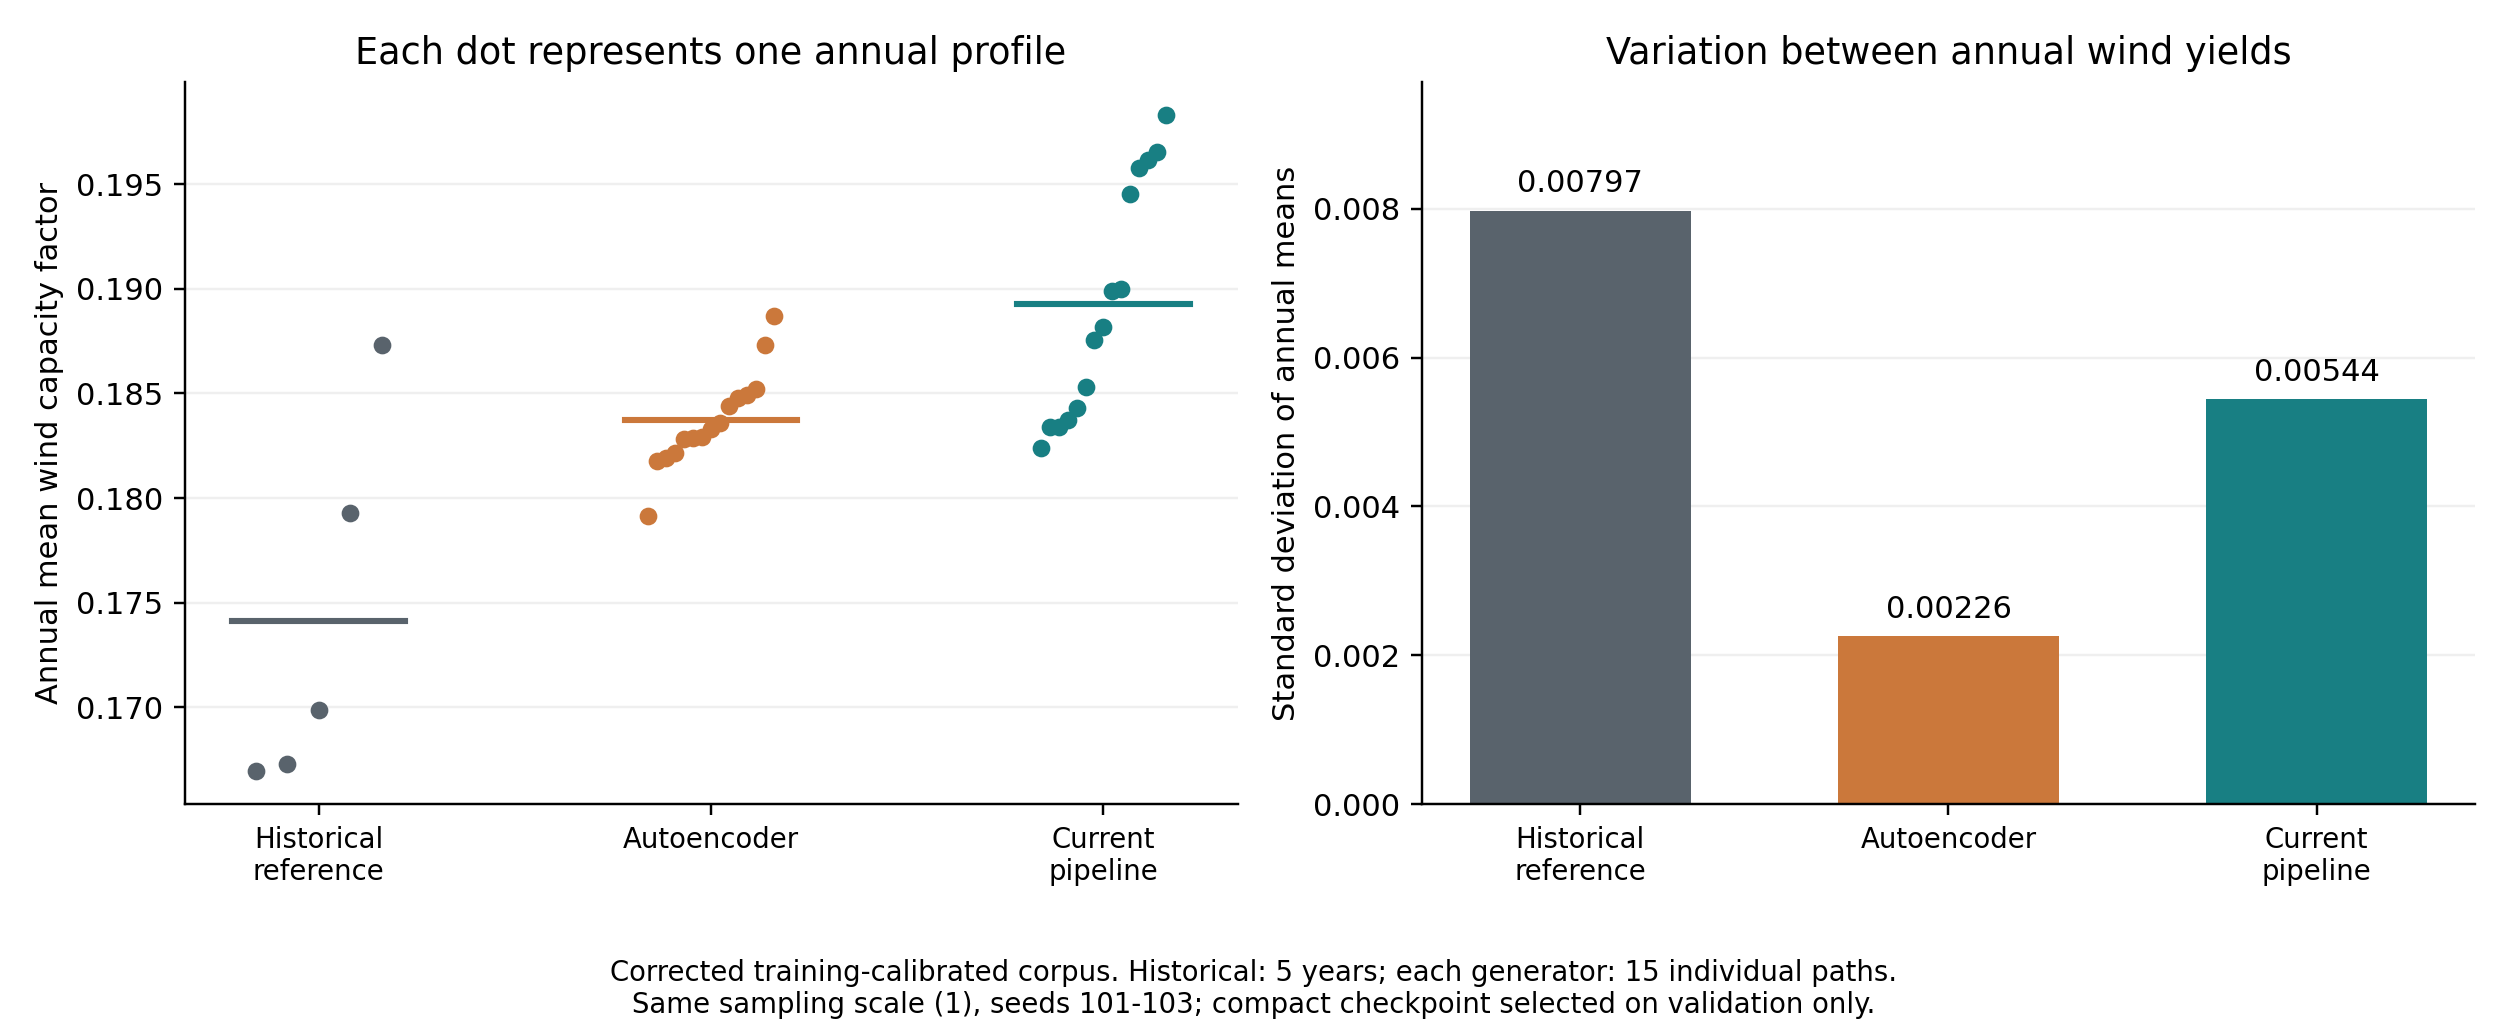
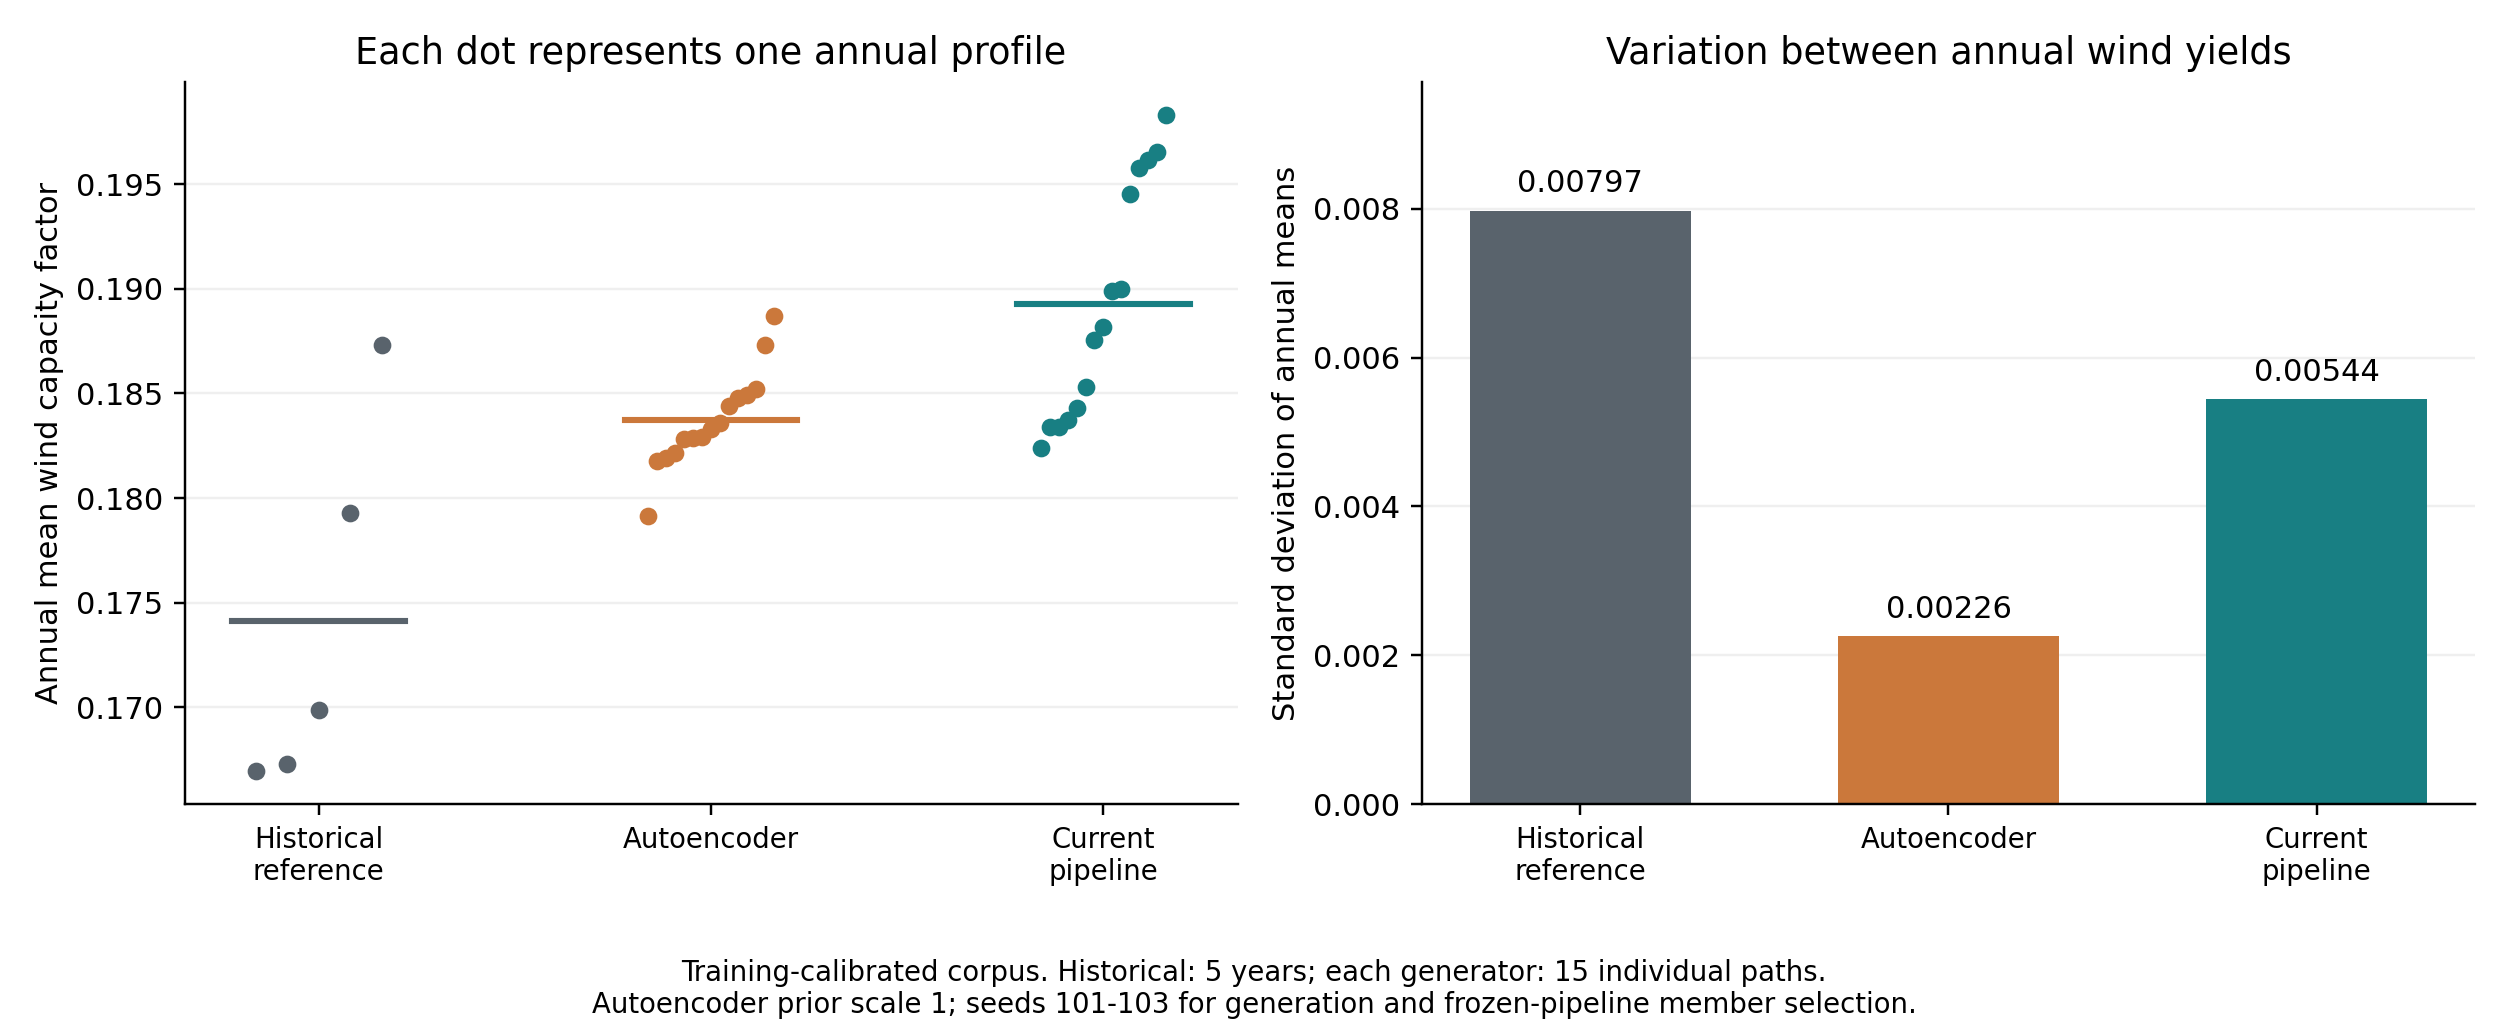
Verify retained wind comparisons against the current climate ensemble
Preserve selected autoencoder weights and source. Clarify inference versus frozen-member sampling and retain only the unchanged wind comparison rows.

Changed region(s): [[0.2488, 0.9284, 0.7775, 0.9903]]

diff --git a/analysis/plot_wind_comparison.py b/analysis/plot_wind_comparison.py
@@ -34,7 +34,7 @@ def main():
     axes[1].set_ylabel('Standard deviation of annual means')
     axes[1].set_title('Variation between annual wind yields')
     axes[1].set_ylim(0,.0097)
-    fig.text(.5,.02,'Corrected training-calibrated corpus. Historical: 5 years; each generator: 15 individual paths.\nSame sampling scale (1), seeds 101-103; compact checkpoint selected on validation only.',ha='center',fontsize=9)
+    fig.text(.5,.02,'Training-calibrated corpus. Historical: 5 years; each generator: 15 individual paths.\nAutoencoder prior scale 1; seeds 101-103 for generation and frozen-pipeline member selection.',ha='center',fontsize=9)
     fig.tight_layout(rect=(0,.11,1,1))
     fig.savefig(ROOT/'figures/annual_wind_comparison.png',dpi=220,facecolor='white')
     plt.close(fig)

diff --git a/README.md b/README.md
@@ -39,8 +39,10 @@ reference and the pipeline sample.
 
 ![Annual wind diversity](figures/annual_wind_comparison.png)
 
-Historical data contain five years; each generator supplies 15 paths using
-fixed seeds 101-103. Dots are individual annual means, not ensemble means.
+Historical data contain five years. Autoencoder inference generates 15 paths
+with prior scale 1 and seeds 101-103; the pipeline comparison selects 15
+members from its frozen ensemble with these seeds. Dots are individual
+annual means, not ensemble means.
 These descriptive comparisons do not estimate rare-event probabilities.
 
 ![Individual wind paths](figures/wind_week.png)
